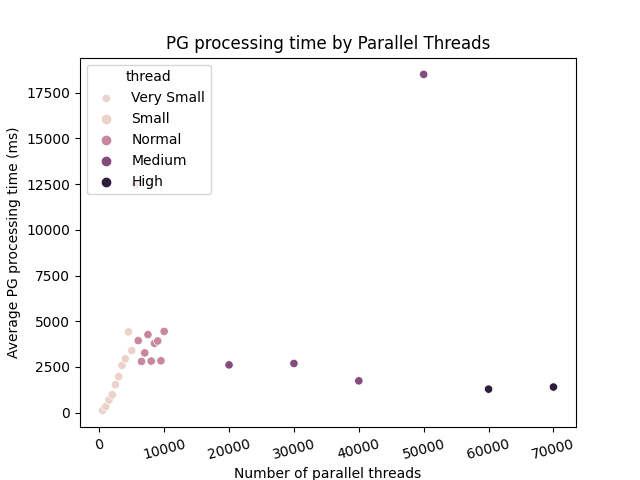
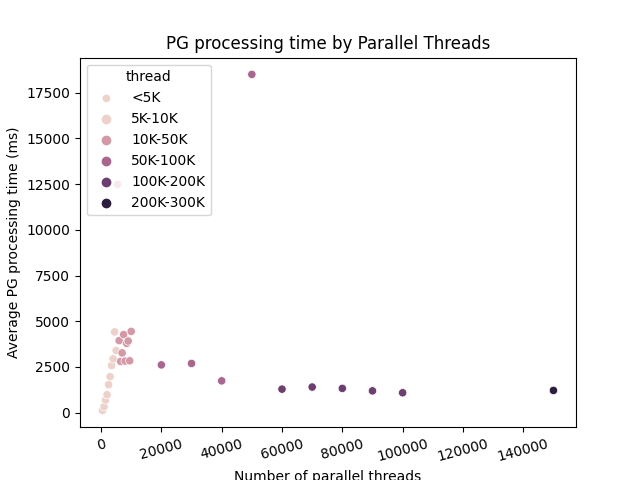
Report

diff --git a/trunglc_report.py b/trunglc_report.py
@@ -11,8 +11,8 @@ x_label_rotation = 15
 working_folder = "/trunglc/data"
 graph_folder = "/trunglc/git_workspace/python_test/graph"
 
-list_thread_threshold = [5e3, 1e4, 5e4, 1e5, 2e5, 3e5, 1e6, 2e6]
-list_thread_threshold_title = ["Very Small", "Small", "Normal", "Medium", "High", "Large", "Very Large", "Huge"]
+list_thread_threshold = [5e3, 1e4, 5e4, 1e5, 2e5, 3e5, 4e5, 4e6]
+list_thread_threshold_title = ["<5K", "5K-10K", "10K-50K", "50K-100K", "100K-200K", "200K-300K", "300K-400K", ">400K"]
 
 lambda_threshold = lambda x : min([list_thread_threshold.index(t) for t in list_thread_threshold if t >= x])
 #print(lambda_threshold(2000))
@@ -87,6 +87,24 @@ sns.scatterplot(x = "threads", y = "p_overload", hue = "thread_cat", data = df_s
 plt.legend(title = 'thread', loc = 'upper left', labels = list_thread_threshold_title)
 plt.xticks(rotation = x_label_rotation)
 plt.savefig(graph_folder + "/overload.png")
+
+plt.clf()
+
+sns.scatterplot(x = "threads", y = "min", hue = "thread_cat", data = df_summary).set(title = "Min time (ms) by Parallel Threads",
+    xlabel = "Number of parallel threads",
+    ylabel = "Min time (ms)")
+plt.legend(title = 'thread', loc = 'upper left', labels = list_thread_threshold_title)
+plt.xticks(rotation = x_label_rotation)
+plt.savefig(graph_folder + "/min.png")
+
+plt.clf()
+
+sns.scatterplot(x = "threads", y = "max", hue = "thread_cat", data = df_summary).set(title = "Max time (ms) by Parallel Threads",
+    xlabel = "Number of parallel threads",
+    ylabel = "Max time (ms)")
+plt.legend(title = 'thread', loc = 'upper left', labels = list_thread_threshold_title)
+plt.xticks(rotation = x_label_rotation)
+plt.savefig(graph_folder + "/max.png")
 
 plt.clf()
 
